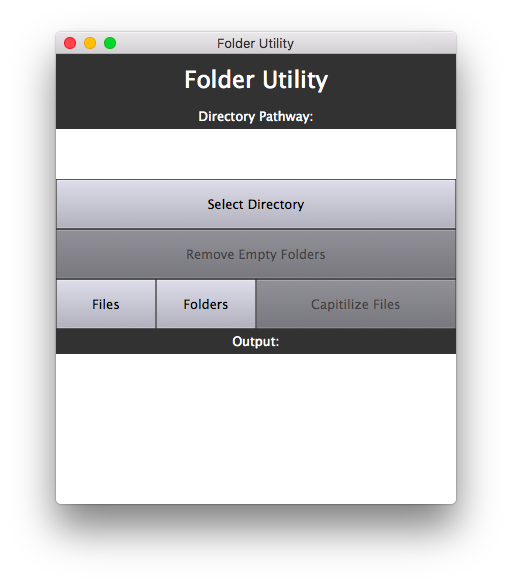
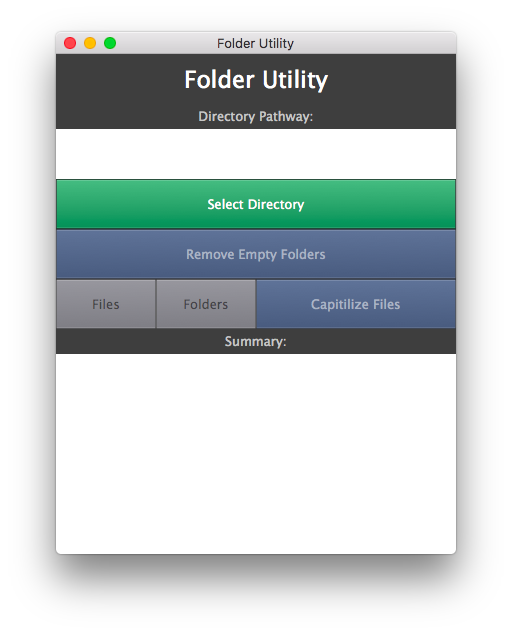
Now, all buttons are off until pathway is set, added new image

Changed region(s): [[0.0938, 0.2774, 0.9062, 0.6164], [0.0938, 0.0616, 0.9062, 0.2466], [0.0938, 0.863, 0.9062, 0.8938]]

diff --git a/Source/Interface.cpp b/Source/Interface.cpp
@@ -123,6 +123,8 @@ Interface::Interface ()
     // These buttons are off until path is set
     removeEmptyFolders->setEnabled(false);
     capitalizeItemsButton->setEnabled(false);
+    filesOptionToggle->setEnabled(false);
+    foldersOptionToggle2->setEnabled(false);
 
     // Set these buttons to be toggle switches
     filesOptionToggle->setClickingTogglesState(true);
@@ -202,6 +204,8 @@ void Interface::buttonClicked (Button* buttonThatWasClicked)
         // IE Directory Iterator trying to iterate when no path has been set
         removeEmptyFolders->setEnabled(true);
         capitalizeItemsButton->setEnabled(true);
+        filesOptionToggle->setEnabled(true);
+        foldersOptionToggle2->setEnabled(true);
 
         // Launch browser window
         fileChooser.browseForDirectory();
